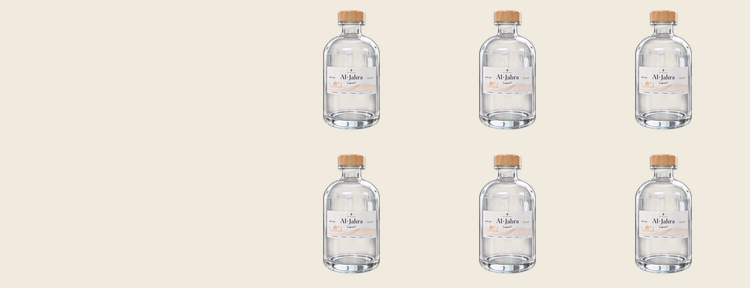
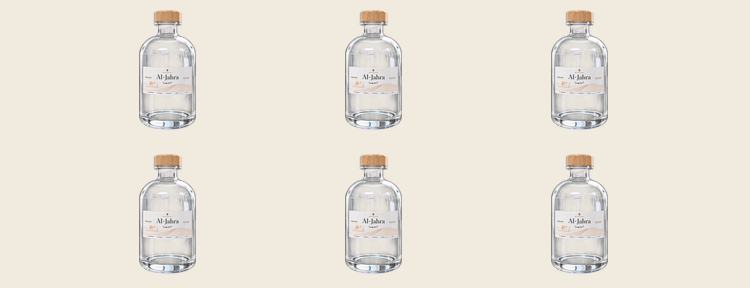
Refine Wallet bottle rewards

diff --git a/Talla Speciality/LoyaltySectionView.swift b/Talla Speciality/LoyaltySectionView.swift
@@ -98,7 +98,7 @@ struct LoyaltySectionView: View {
                     .fixedSize(horizontal: false, vertical: true)
             }
 
-            stampProgressCard
+            stampProgressCard(pointsBalance: account.pointsBalance)
 
             HStack(spacing: 10) {
                 Button {
@@ -144,36 +144,33 @@ struct LoyaltySectionView: View {
         )
     }
 
-    private var stampProgressCard: some View {
-        let filledCount = min(max(Int(floor((rewardProgress?.fraction ?? 0) * 5)), 0), 5)
-        let rewardIsReady = (rewardProgress?.fraction ?? 0) >= 0.999
-        let stampsLeft = max(5 - filledCount, 0)
+    private func stampProgressCard(pointsBalance: Int) -> some View {
+        let cyclePoints = max(pointsBalance, 0) % 300
+        let currentPoints = cyclePoints == 0 && pointsBalance > 0 ? 300 : cyclePoints
+        let filledCount = min(max(currentPoints / 50, 0), 6)
+        let bottlesLeft = max(6 - filledCount, 0)
 
         return VStack(spacing: 13) {
             LazyVGrid(columns: Array(repeating: GridItem(.flexible(), spacing: 10), count: 3), spacing: 10) {
-                ForEach(0..<5, id: \.self) { index in
+                ForEach(0..<6, id: \.self) { index in
                     productStamp(isEarned: index < filledCount)
                 }
-
-                rewardStamp(isReady: rewardIsReady)
             }
 
-            HStack(spacing: 12) {
-                stampMetric(
-                    label: AppLocalization.text("stamps_left", fallback: "Stamps left"),
-                    value: rewardIsReady ? "0" : "\(stampsLeft)"
-                )
+            HStack(spacing: 8) {
+                Image(systemName: "info.circle.fill")
+                    .font(.system(size: 13, weight: .semibold))
+                    .foregroundColor(accentColor)
 
-                Divider()
-                    .frame(height: 30)
-                    .overlay(accentColor.opacity(0.18))
+                Text(AppLocalization.text("loyalty_bottle_value", fallback: "Every 50 Beans fills one bottle and unlocks a drink of your choice."))
+                    .font(Font.custom("AvenirNext-Medium", size: 12))
+                    .foregroundColor(secondaryTextColor)
 
-                stampMetric(
-                    label: AppLocalization.text("available_reward", fallback: "Available reward"),
-                    value: rewardIsReady
-                        ? AppLocalization.text("ready", fallback: "Ready")
-                        : AppLocalization.text("keep_collecting", fallback: "Keep collecting")
-                )
+                Spacer(minLength: 8)
+
+                Text(String(format: AppLocalization.text("loyalty_bottles_left", fallback: "%d left"), bottlesLeft))
+                    .font(Font.custom("AvenirNext-Bold", size: 11))
+                    .foregroundColor(primaryTextColor)
             }
         }
         .padding(12)
@@ -181,9 +178,10 @@ struct LoyaltySectionView: View {
         .clipShape(RoundedRectangle(cornerRadius: 16, style: .continuous))
         .accessibilityElement(children: .combine)
         .accessibilityLabel(
-            rewardIsReady
-                ? AppLocalization.text("reward_ready", fallback: "Reward ready")
-                : "\(stampsLeft) " + AppLocalization.text("stamps_left", fallback: "stamps left")
+            String(
+                format: AppLocalization.text("loyalty_bottle_progress_accessibility", fallback: "%d of 6 bottles filled. Every filled bottle unlocks a drink of your choice."),
+                filledCount
+            )
         )
     }
 
@@ -225,30 +223,6 @@ struct LoyaltySectionView: View {
         .animation(.spring(response: 0.45, dampingFraction: 0.8), value: isEarned)
     }
 
-    private func rewardStamp(isReady: Bool) -> some View {
-        ZStack {
-            RoundedRectangle(cornerRadius: 14, style: .continuous)
-                .fill(isReady ? accentColor : cardFillColor.opacity(0.5))
-
-            VStack(spacing: 5) {
-                Image(systemName: isReady ? "gift.fill" : "gift")
-                    .font(.system(size: 22, weight: .semibold))
-
-                Text(AppLocalization.text("reward", fallback: "Reward"))
-                    .font(Font.custom("AvenirNext-Bold", size: 8))
-                    .tracking(1)
-                    .textCase(.uppercase)
-            }
-            .foregroundColor(isReady ? Color(hex: 0x0A0804) : tertiaryTextColor)
-        }
-        .frame(height: isCompact ? 62 : 70)
-        .overlay(
-            RoundedRectangle(cornerRadius: 14, style: .continuous)
-                .stroke(accentColor.opacity(isReady ? 0.65 : 0.16), lineWidth: 1)
-        )
-        .clipShape(RoundedRectangle(cornerRadius: 14, style: .continuous))
-    }
-
     private var coffeeBeanFallback: some View {
         ZStack {
             accentColor.opacity(0.10)
@@ -258,23 +232,6 @@ struct LoyaltySectionView: View {
                 .rotationEffect(.degrees(38))
                 .foregroundColor(accentColor)
         }
-    }
-
-    private func stampMetric(label: String, value: String) -> some View {
-        VStack(alignment: .leading, spacing: 2) {
-            Text(label)
-                .font(Font.custom("AvenirNext-Bold", size: 8))
-                .tracking(1.1)
-                .textCase(.uppercase)
-                .foregroundColor(tertiaryTextColor)
-
-            Text(value)
-                .font(Font.custom("AvenirNext-DemiBold", size: 12))
-                .foregroundColor(primaryTextColor)
-                .lineLimit(1)
-                .minimumScaleFactor(0.75)
-        }
-        .frame(maxWidth: .infinity, alignment: .leading)
     }
 
     private var rewardsCatalogScreen: some View {

diff --git a/backend/server.js b/backend/server.js
@@ -5081,6 +5081,7 @@ async function updateOrderStatusAndAward(email, orderID, status) {
 function rewardDetailsFor(reward) {
     const normalized = String(reward || "").trim().toLowerCase();
     const catalog = {
+        "free drink": { detail: "One eligible drink of your choice, up to BHD 2.500", expiresInDays: 30 },
         "espresso pour": { detail: "Complimentary espresso or batch brew", expiresInDays: 30 },
         "pastry pairing": { detail: "One pastry on the house", expiresInDays: 21 },
         "signature sip": { detail: "One signature drink on the house", expiresInDays: 30 },
@@ -5154,21 +5155,15 @@ async function generateWalletPass(email) {
     passJSON.serialNumber = serialNumber;
     passJSON.barcode.message = loyaltyAccount.memberID;
     passJSON.barcode.altText = loyaltyAccount.memberID;
-    passJSON.storeCard.primaryFields[0].value = loyaltyAccount.pointsBalance;
+    passJSON.storeCard.primaryFields = [];
     passJSON.storeCard.secondaryFields[0].value = memberName || account.email;
     passJSON.storeCard.secondaryFields[1].value = loyaltyAccount.tier;
-    const stampState = await writeWalletStampStrips({
+    await writeWalletStampStrips({
         passDirectory,
         artworkDirectory: walletPassArtworkDirectory,
         pointsBalance: loyaltyAccount.pointsBalance
     });
-    passJSON.storeCard.auxiliaryFields = [
-        {
-            key: "stamps_left",
-            label: "BOTTLES LEFT",
-            value: stampState.stampsLeft
-        }
-    ];
+    passJSON.storeCard.auxiliaryFields = [];
     passJSON.storeCard.backFields = [
         {
             key: "email",

diff --git a/Talla Speciality/ContentSupport.swift b/Talla Speciality/ContentSupport.swift
@@ -274,7 +274,7 @@ enum AppLocalization {
         ,"earn_beans_rate": ["ar": "الطلبات المكتملة تمنح 5 Beans لكل 1 دينار بحريني يتم إنفاقه."]
         ,"earn_beans_detail": ["ar": "تتحدّث مكافآتك تلقائياً بعد تسجيل المشتريات المكتملة."]
         ,"redeem_rewards": ["ar": "استبدال المكافآت"]
-        ,"reward_espresso_pour": ["ar": "إسبريسو صغير"]
+        ,"reward_espresso_pour": ["ar": "مشروب من اختيارك"]
         ,"reward_majlis_hosting": ["ar": "مكافأة ضيافة المجلس"]
         ,"reward_pastry_pairing": ["ar": "مرافقة معجنات"]
         ,"reward_signature_sip": ["ar": "مشروب مميز"]
@@ -827,7 +827,7 @@ enum AppLocalization {
         ,"resume_checkout": ["ar": "استئناف الدفع"]
         ,"reward_bag_credit_detail": ["ar": "خصم على كيس قهوة"]
         ,"reward_eligible": ["ar": "مؤهل للمكافأة"]
-        ,"reward_espresso_pour_detail": ["ar": "إسبريسو مجاني"]
+        ,"reward_espresso_pour_detail": ["ar": "اختر أي مشروب مؤهل"]
         ,"reward_gold_reserve_gift_detail": ["ar": "هدية Reserve حصرية"]
         ,"reward_majlis_hosting_detail": ["ar": "خدمة قهوة عربية"]
         ,"reward_pastry_pairing_detail": ["ar": "معجنات مع القهوة"]

diff --git a/backend/wallet-pass-artwork.js b/backend/wallet-pass-artwork.js
@@ -41,17 +41,17 @@ async function renderWalletStampStrip({
 }) {
     const width = 375 * scale;
     const height = 144 * scale;
-    const slotWidth = 64 * scale;
+    const slotWidth = 72 * scale;
     const slotHeight = 60 * scale;
     const topY = 5 * scale;
     const bottomY = 77 * scale;
     const positions = [
-        { left: 144 * scale, top: topY },
-        { left: 222 * scale, top: topY },
-        { left: 300 * scale, top: topY },
-        { left: 144 * scale, top: bottomY },
-        { left: 222 * scale, top: bottomY },
-        { left: 300 * scale, top: bottomY }
+        { left: 48 * scale, top: topY },
+        { left: 151 * scale, top: topY },
+        { left: 254 * scale, top: topY },
+        { left: 48 * scale, top: bottomY },
+        { left: 151 * scale, top: bottomY },
+        { left: 254 * scale, top: bottomY }
     ];
     const safeFilledCount = Math.min(Math.max(Number(filledCount) || 0, 0), STAMP_COUNT);
     const [emptyBottle, fullBottle] = await Promise.all([

diff --git a/Talla Speciality/LoyaltyDetailSections.swift b/Talla Speciality/LoyaltyDetailSections.swift
@@ -26,10 +26,10 @@ struct LoyaltyRewardsActionsView: View {
         [
             RewardOption(
                 id: "espresso-pour",
-                title: AppLocalization.text("reward_espresso_pour", fallback: "Espresso Pour"),
-                detail: AppLocalization.text("reward_espresso_pour_detail", fallback: "Complimentary espresso"),
+                title: AppLocalization.text("reward_espresso_pour", fallback: "Drink of Your Choice"),
+                detail: AppLocalization.text("reward_espresso_pour_detail", fallback: "Choose any eligible drink"),
                 points: 50,
-                reward: "Espresso pour"
+                reward: "Free Drink"
             ),
             RewardOption(
                 id: "pastry-pairing",
